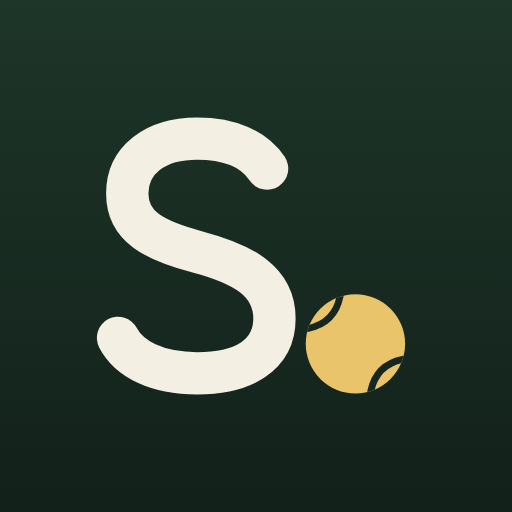
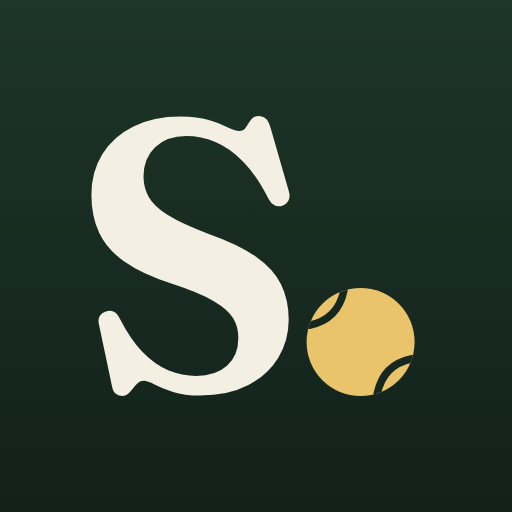
The S is Fraunces now: a real serif letter, as Sam chose
Sam, after two hand-drawn monoline S's: he wanted it "more like" the serif
greetings on the Paris and SW19 themes. So the letter is no longer drawn
at all. Four were generated from the fonts the themes already ship —
Fraunces 600, Fraunces 700, Fraunces at its 144 optical size and Cormorant
Garamond 700 — shown side by side at 300, 60 and 40px, and he picked
Fraunces 600: soft bracketed serifs, real thick-and-thin contrast.

The outline is Fraunces's own "S", read from the font file with opentype.js
and written into the masters as a filled path (Fraunces is SIL OFL, which
allows its outlines in a logo). Cap height 560 on the 1024 tile; the gold
ball with its clipped seams sits on the baseline to its right and the pair
is centred. The maskable is the same mark scaled 0.8 about the centre; the
favicon is the letter alone at 780 tall, still without the ball. All
fifteen PNGs and the .ico were re-rendered, and the in-app header mark
carries the same outline in theme colours — checked on screen.

Claude-Session: https://claude.ai/code/session_017cJUU5ME864B4ob9pW1pLX

diff --git a/src/components/ui/RallyMark.tsx b/src/components/ui/RallyMark.tsx
@@ -5,7 +5,7 @@ import React from "react";
 // app was Rally until 2026-09-27, and renaming the component would touch
 // every importer for no change on screen.)
 //
-// Same letter as the app icon — the S path is copied from
+// Same letter as the app icon — Fraunces 600's S, the outline copied from
 // public/icon.svg and the ball sits at the same place, so the thing in the
 // corner of the header and the thing on the home screen are one mark. If the
 // icon's geometry is ever changed, change it here too; the build notes in
@@ -39,23 +39,16 @@ export function RallyMark({ size = 22, title }: { size?: number; title?: string 
   return (
     <svg
       width={size}
-      height={size * (602 / 670)}
-      viewBox="256 211 670 602"
+      height={size * (568 / 654.3)}
+      viewBox="178.8 228 654.3 568"
       role={title ? "img" : "presentation"}
       aria-label={title}
       aria-hidden={title ? undefined : true}
       style={{ flexShrink: 0, display: "block" }}
     >
-      <g
-        fill="none"
-        stroke="var(--text-hi)"
-        strokeWidth={92}
-        strokeLinecap="round"
-        strokeLinejoin="round"
-      >
-        <path d="M626 322C598 280 545 257 474 257C382 257 322 304 322 376C322 448 380 478 474 503C572 529 642 566 642 648C642 728 574 767 474 767C386 767 326 736 302 690" />
-      </g>
-      <circle cx={818} cy={703} r={108} fill="var(--mark-ball)" />
+      {/* Fraunces 600's "S", the same outline as public/icon.svg. */}
+      <path fill="var(--text-hi)" d="M400.0 791.2L400.0 791.2Q368.6 791.2 346.0 783.8Q323.4 776.3 309.1 769.0Q294.7 761.7 287.8 761.7L287.8 761.7Q280.1 761.7 275.2 766.3Q270.2 770.9 265.8 776.9Q261.4 782.8 256.4 787.4Q251.4 792 244.1 792L244.1 792Q236.1 792 230.9 787.2Q225.7 782.4 223.8 771.3L223.8 771.3L197.4 646.4Q195.9 638.0 199.5 631.9Q203.1 625.8 211.6 623.1L211.6 623.1Q220.8 620.0 227.7 623.5Q234.6 626.9 239.5 636.9L239.5 636.9Q261.4 679.8 286.1 705.1Q310.8 730.3 337.6 741.1Q364.4 751.8 392.4 751.8L392.4 751.8Q431.4 751.8 454.0 731.5Q476.6 711.2 476.6 677.1L476.6 677.1Q477.0 654.9 466.7 637.1Q456.3 619.3 427.6 602.4Q398.9 585.5 342.6 567.2L342.6 567.2Q284.3 548.4 249.3 523.7Q214.3 499.0 198.5 466.0Q182.8 433.1 182.8 389.4L182.8 389.4Q182.8 343.1 204.9 307.8Q226.9 272.6 266.9 252.9Q306.9 233.1 360.6 233.1L360.6 233.1Q395.0 233.1 417.6 240.2Q440.2 247.3 454.8 254.6Q469.4 261.9 478.9 261.9L478.9 261.9Q487.4 261.9 492.0 254.4Q496.6 246.9 501.9 239.5Q507.3 232 518.0 232L518.0 232Q526.4 232 532.0 237.4Q537.5 242.7 541.7 257.3L541.7 257.3L577.8 382.9Q580.8 392.9 577.2 400.7Q573.5 408.6 564.7 411.3L564.7 411.3Q555.9 414.3 548.8 410.7Q541.7 407.0 537.2 398.2L537.2 398.2Q513.4 350.7 486.4 323.4Q459.4 296.0 430.7 284.1Q401.9 272.2 372.4 272.2L372.4 272.2Q333.4 272.2 310.2 294.6Q287.0 317.0 287.0 353.0L287.0 353.0Q287.0 374.9 297.2 393.6Q307.3 412.4 335.7 430.2Q364.0 448.0 417.6 468.0L417.6 468.0Q477.0 489.0 512.1 513.5Q547.1 538.0 562.2 568.9Q577.4 599.7 577.4 639.6L577.4 639.6Q577.4 681.3 556.3 715.8Q535.2 750.2 495.8 770.7Q456.3 791.2 400.0 791.2Z" />
+      <circle cx={721.2} cy={684} r={108} fill="var(--mark-ball)" />
     </svg>
   );
 }

diff --git a/scripts/build-icons.md b/scripts/build-icons.md
@@ -1,8 +1,9 @@
 # Rebuilding the app icons
 
 **2026-09-27: the letter is an S now.** The app became Southwood and the R
-was redrawn as an S — a smooth monoline S in the same 92 stroke, with the
-ball moved to (818, 703).
+became an S: FRAUNCES 600's own S outline (filled, not stroked), chosen by
+Sam from four serif options. It is generated, not drawn: opentype.js reads
+the font file and writes the path — see the comment in icon.svg.
 Where this file says "the R" or "the letter", read the S — the rules are the
 same. That rebuild was rasterised with Playwright's Chromium in a cloud
 session (`/tmp/.../raster.mjs`: open each master as an <img> at the target
